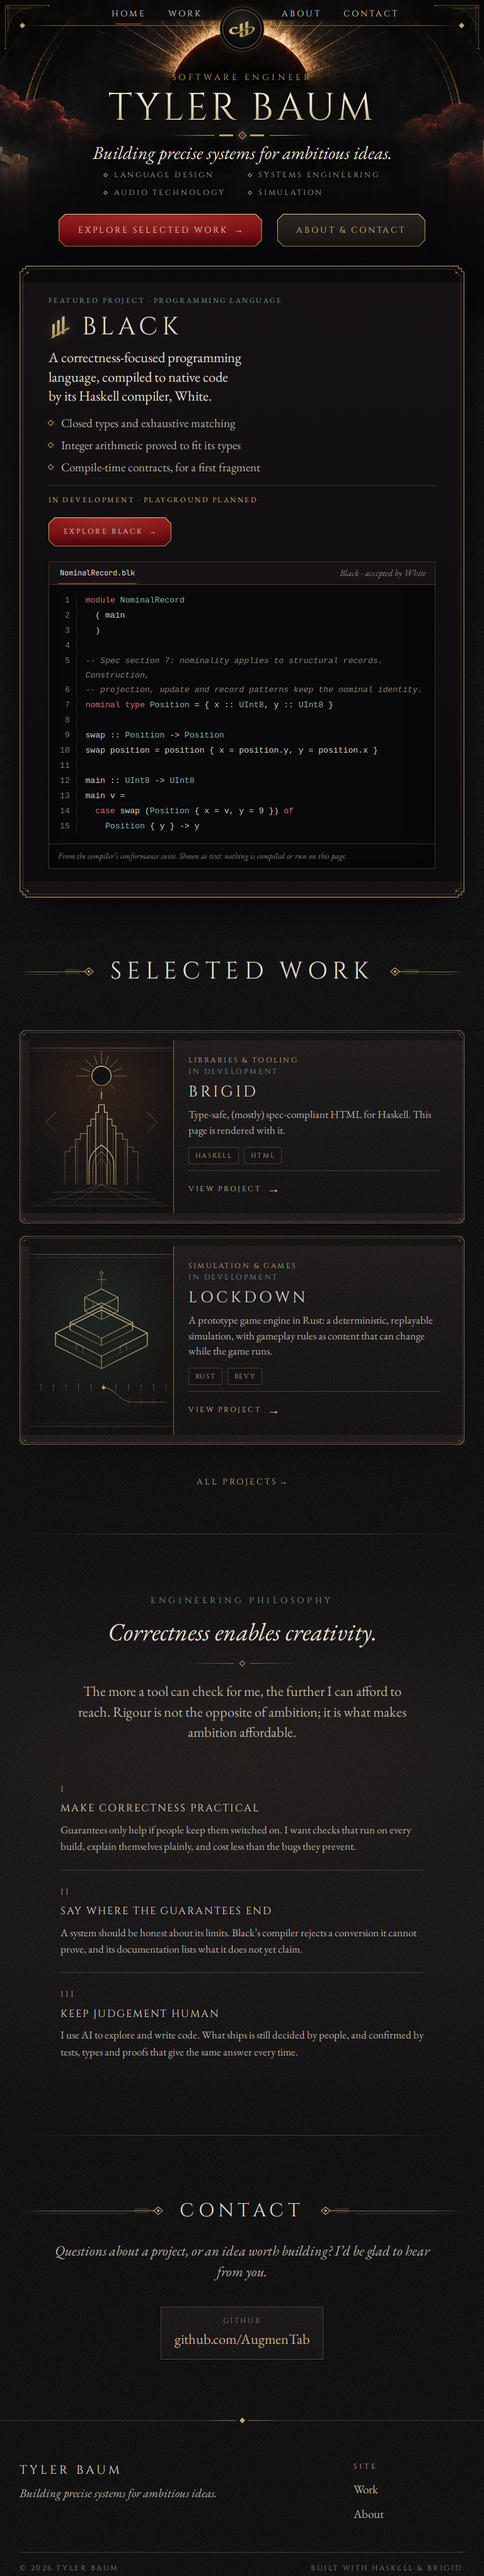
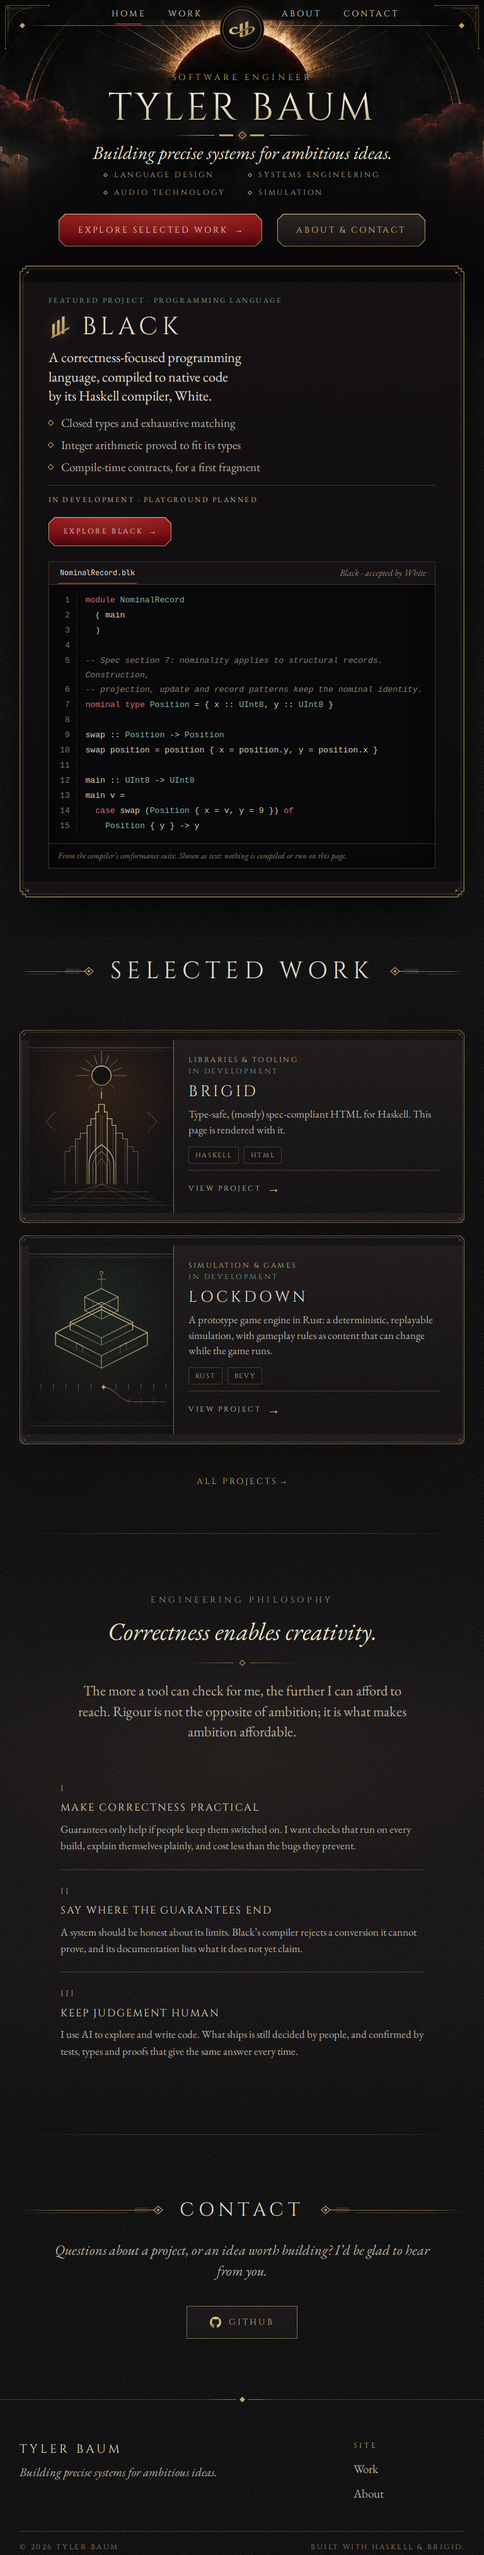
Phase 05 update 1: concise contact cards
Each homepage contact card is now a single link showing a small icon
beside the destination's label, in a row. The visible URL is gone; it is
kept as visually hidden text so the accessible name names the
destination. Icons (GitHub, LinkedIn, Email) are SVG assets used as CSS
masks, so they follow the text colour on hover and in forced colours.
No clipboard control. Browser checks assert the layout, the absence of a
visible URL and the focus ring; hero band regression still 0.00.

diff --git a/assets/styles/site.css b/assets/styles/site.css
@@ -1202,38 +1202,50 @@ ul {
   margin-top: var(--space-4);
 }
 
+/* Each card is one link: an icon beside its label, in a row (Phase 05
+   update 1; the full URL is no longer shown). */
 .contact__link {
   display: inline-flex;
-  flex-direction: column;
-  gap: 0.15rem;
-  min-width: 14rem;
-  padding: 0.8rem 1.3rem 0.85rem;
-  border: 1px solid var(--gold-hairline);
+  flex-direction: row;
+  align-items: center;
+  justify-content: center;
+  gap: 0.75rem;
+  min-width: 11rem;
+  min-height: 3.25rem;
+  padding: 0.75rem 1.5rem;
+  border: 1px solid var(--gold-line);
   background: linear-gradient(180deg, rgb(26 22 25 / 0.8), rgb(18 16 19 / 0.8));
+  color: var(--text-gold);
   text-decoration: none;
-  transition: border-color 160ms ease;
+  transition: border-color 160ms ease, color 160ms ease;
 }
 
 .contact__link:hover {
-  border-color: var(--gold-line);
+  border-color: var(--gold);
+  color: var(--gold-bright);
 }
+
+/* The icon is a mask filled with the link's colour, so it follows hover
+   and forced-colours states with the text. */
+.contact__icon {
+  flex: none;
+  width: 1.15rem;
+  height: 1.15rem;
+  background-color: currentColor;
+  -webkit-mask: var(--icon) center / contain no-repeat;
+  mask: var(--icon) center / contain no-repeat;
+}
+
+.contact__icon--github { --icon: url("../images/icon-github.svg"); }
+.contact__icon--linkedin { --icon: url("../images/icon-linkedin.svg"); }
+.contact__icon--email { --icon: url("../images/icon-email.svg"); }
 
 .contact__label {
   font-family: var(--font-display);
-  font-size: var(--step--2);
+  font-size: var(--step--1);
   letter-spacing: var(--tracking-caps);
+  line-height: 1;
   text-transform: uppercase;
-  color: var(--text-faint);
-}
-
-.contact__display {
-  font-size: var(--step-1);
-  color: var(--text-gold);
-  overflow-wrap: anywhere;
-}
-
-.contact__link:hover .contact__display {
-  color: var(--gold-bright);
 }
 
 /* Footer (Phase 05): identity, site links, contact destinations, then the
@@ -2693,6 +2705,11 @@ ul {
 @media (forced-colors: active) {
   .contact__link {
     border: 1px solid LinkText;
+  }
+
+  .contact__icon {
+    forced-color-adjust: none;
+    background-color: LinkText;
   }
 }
 

diff --git a/tools/screenshots/phase05.py b/tools/screenshots/phase05.py
@@ -348,8 +348,30 @@ def contact_checks(browser, base, failures):
         report[f"controls/{vp_name}"] = controls
         if controls != ["https://github.com/AugmenTab"]:
             failures.append(f"contact/{vp_name}: controls {controls}")
+        # Update 1: icon and label side by side; no visible URL.
+        cards = page.evaluate("""() => [...document.querySelectorAll('#contact .contact__link')].map(a => {
+            const i = a.querySelector('.contact__icon').getBoundingClientRect();
+            const l = a.querySelector('.contact__label').getBoundingClientRect();
+            const box = a.getBoundingClientRect();
+            const shown = [...a.querySelectorAll('span:not(.visually-hidden)')].map(s => s.textContent).join('');
+            return { label: shown, iconVisible: i.width > 0 && i.height > 0,
+                     iconBeforeLabel: i.right <= l.left, centred: Math.abs((i.top + i.bottom) / 2 - (l.top + l.bottom) / 2) <= 3,
+                     inside: i.left >= box.left && l.right <= box.right, width: Math.round(box.width), height: Math.round(box.height) }; })""")
+        report[f"cards/{vp_name}"] = cards
+        for card in cards:
+            if "github.com" in card["label"] or not (card["iconVisible"] and card["iconBeforeLabel"] and card["centred"] and card["inside"]):
+                failures.append(f"contact/{vp_name}: card layout {card}")
         page.locator("#contact").scroll_into_view_if_needed()
         element_shot(page, "#contact", f"contact/home-contact-{vp_name}.png")
+        # Keyboard: the card takes a visible focus ring.
+        page.focus("#contact .contact__link")
+        ring = page.evaluate(FOCUS_RING_JS)
+        report[f"focus/{vp_name}"] = ring
+        if not ring["ring"]:
+            failures.append(f"contact/{vp_name}: no visible focus ring on the card")
+        if vp_name in ("desktop", "mobile"):
+            page.wait_for_timeout(250)
+            element_shot(page, "#contact", f"contact/home-contact-{vp_name}-focus.png")
         page.close()
     return report
 

diff --git a/design/proof/phase-05/README.md b/design/proof/phase-05/README.md
@@ -13,7 +13,7 @@ fixture site (`.local/fixture-site/`, :8082). Full machine-readable results:
 | `home/` | Homepage first view, desktop and mobile (the full pages, with the new Contact section and footer, are in `../phase-03/home-*-full.png`, refreshed by this run) |
 | `work/` | Work index full pages at 1920, 1440, 1280, 768, 390 and 320; search (`haskell`), category filter, no results, keyboard-selected chip (first views); no-JavaScript full page |
 | `project/` | Desktop first views (sidebar, all three hero-less dossiers); compact index collapsed and expanded at 768, 390 and 320 (Black for every width, Brigid and Lockdown at 390); Black mobile first view |
-| `contact/` | `/#contact` reached from a project page; the homepage Contact section at 1440, 390 and 320 |
+| `contact/` | `/#contact` reached from a project page; the homepage Contact section at 1440, 390 and 320, plus the focused card at 1440 and 390 (update 1: icon beside label, no visible URL); `fixture-all-kinds-{desktop,mobile}.png` shows GitHub, LinkedIn and Email cards on a throwaway review page with placeholder targets (only GitHub is configured on the real site) |
 | `footer/` | Footer on About at every width, and on the homepage (no contact column) |
 | `about/` | About full page and the emblem composition, desktop and mobile |
 | `pages/` | Home, Work, About and Black at 320px (every page is checked at 1920, 1280 and 320; only the narrowest is kept) |
@@ -42,7 +42,9 @@ fixture site (`.local/fixture-site/`, :8082). Full machine-readable results:
   keyboard order is back link, summary (Enter opens it), then the links.
 - Contact: from a project page lands on `/#contact` in view, with no fixed
   or sticky UI over it; on the homepage, no reload. One control per
-  destination.
+  destination. Each card shows only an icon and its label: the icon is
+  left of the label and vertically centred with it (within 3px), the URL
+  is not visible, and the card takes a visible focus ring.
 - Footer: no images, no overflow, text at least 11px, every link resolves.
 - Discovery: every sitemap URL is served; robots.txt names the sitemap;
   the canonical URL is the production URL.

diff --git a/README.md b/README.md
@@ -699,8 +699,14 @@ settingsContacts =
 ```
 
 Each kind may appear once; they always display in the order GitHub,
-LinkedIn, Email, each as **one** link (label and destination inside the
-same control). The constructors fix the scheme and host, and validation
+LinkedIn, Email. On the homepage each is **one** card that is itself the
+link: a small icon beside the label ("GitHub"). The URL or address is not
+shown, but it stays in the link as visually hidden text, so screen readers
+still announce the destination. The icons are `assets/images/icon-{github,linkedin,email}.svg`,
+used as CSS masks, so they take the text colour on hover and in forced
+colours. There is no copy-to-clipboard control; one for the email
+address, if added later, must be a separate button beside the card, never
+inside the link. The constructors fix the scheme and host, and validation
 rejects anything but a plain username, profile id or address (no display
 names, queries or uppercase domains), so a contact cannot point anywhere
 unexpected. The footer repeats the destinations on every page except the
